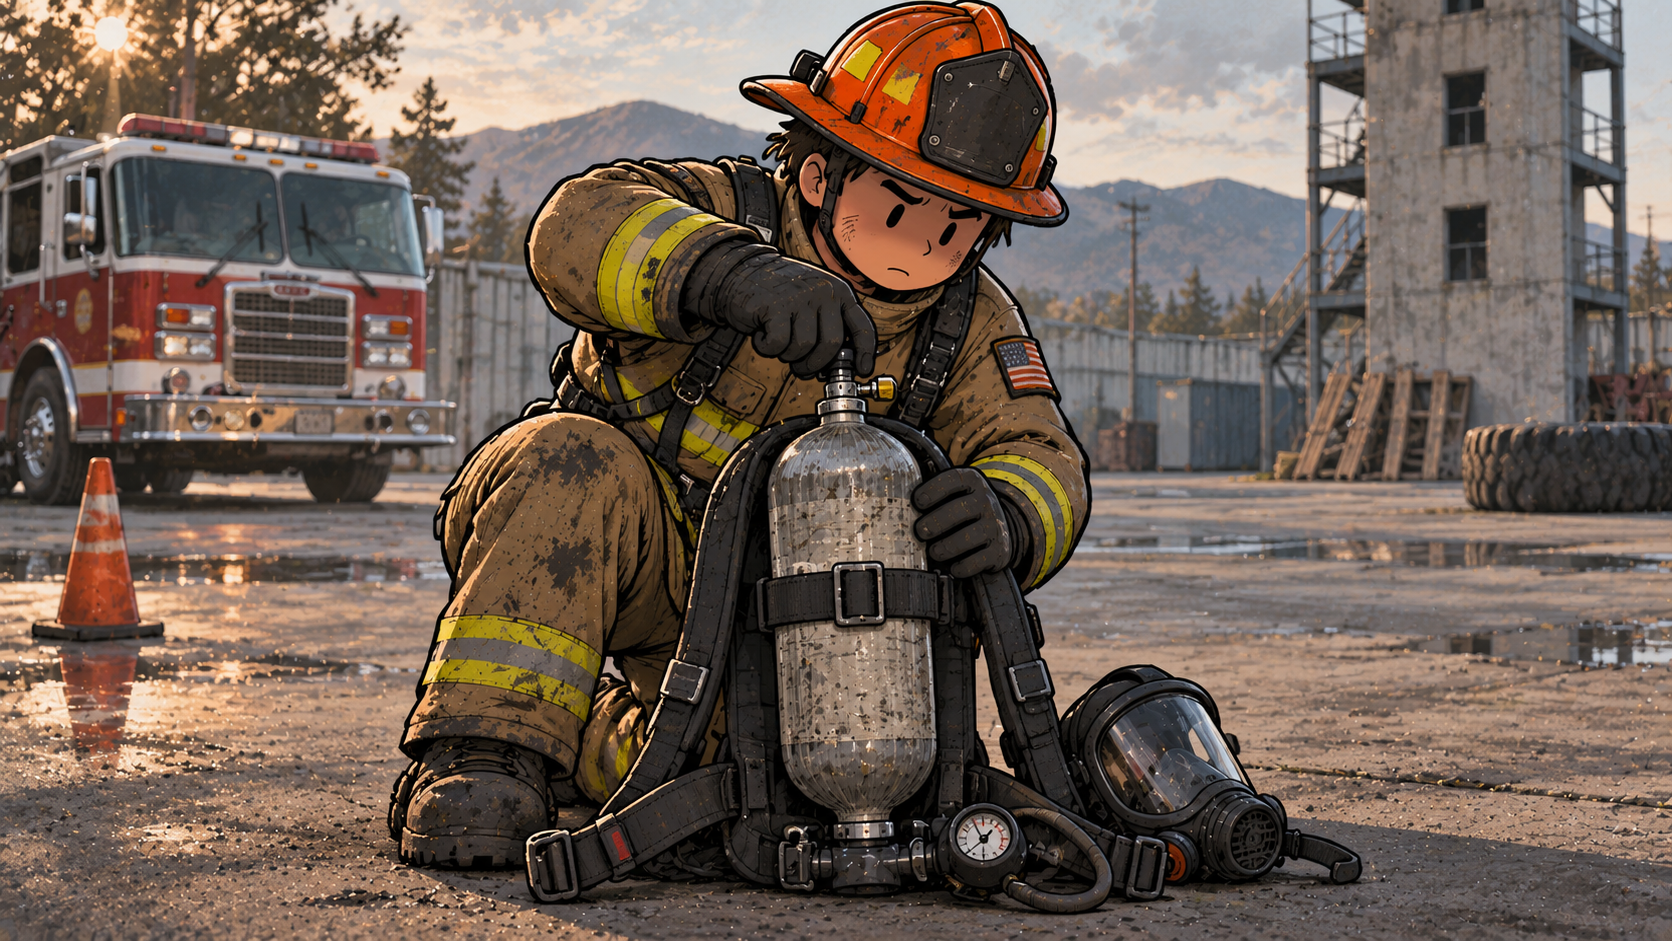
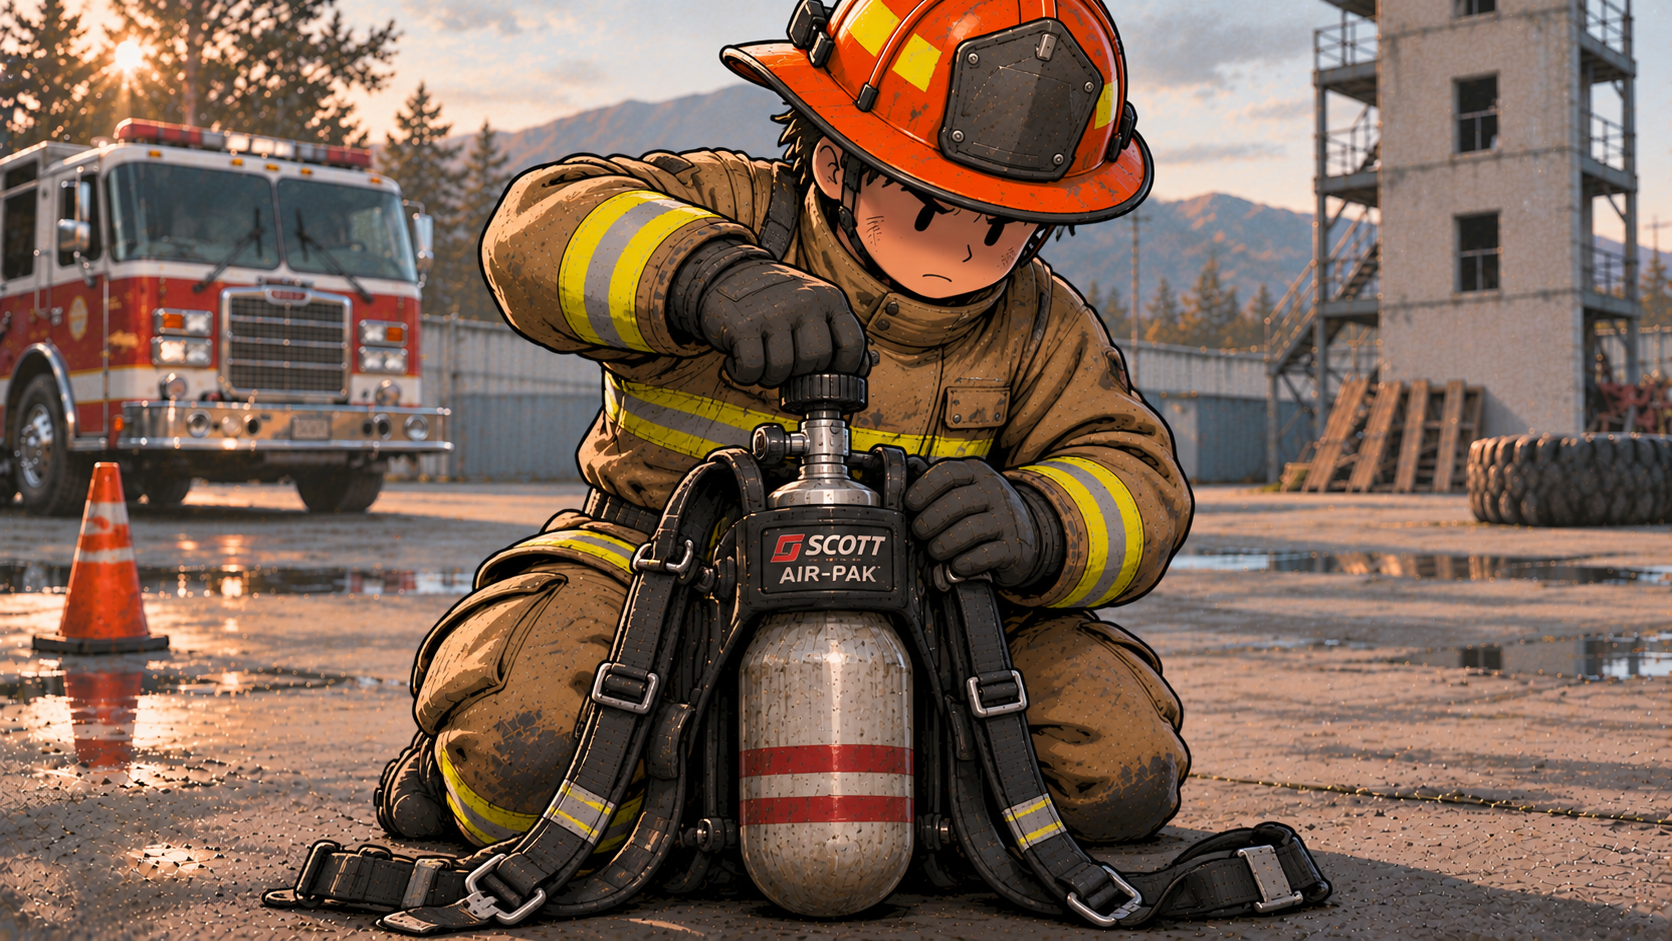
Fix SCBA steps 1-2 per Anthony: flip pack upside down to turn Scott valve on; bottle vertical, valve up, on the over-the-head lift

diff --git a/index.html b/index.html
@@ -64,7 +64,7 @@
     <div class="steps-overview">
       <h2>The seven steps</h2>
       <ol>
-        <li><b>Valve on</b> — cylinder valve fully on, listen for Vibralert + PASS</li>
+        <li><b>Valve on</b> — flip the pack upside down, cylinder valve fully on, listen for Vibralert + PASS</li>
         <li><b>Over the head</b> — lift the pack overhead, lower it onto your back</li>
         <li><b>Straps</b> — shoulder straps, buckle + tighten the waist belt</li>
         <li><b>Facepiece</b> — pull it on from the bag at your left hip, secure the harness</li>
@@ -125,9 +125,9 @@ const STEPS = [
   {
     n: 1, title: "Valve on",
     img: "scenes/scene01.png",
-    situation: "You're kneeling behind the SCBA. It's upright on the ground, straps spread out. The cylinder valve is on top, still closed. What's the first thing you do?",
-    correct: "Turn the cylinder valve on fully and listen for the Vibralert and PASS activation.",
-    why: "Air first, before the pack goes on. Turning the valve on lets you hear the Vibralert (low-air alarm) and the PASS activate — that's your only air check before you don it.",
+    situation: "You're kneeling behind the SCBA. It's a Scott bottle. To reach the knob, flip the pack upside down so the cylinder valve is on top, still closed. What's the first thing you do?",
+    correct: "Flip the pack upside down, then turn the cylinder valve knob on fully and listen for the Vibralert and PASS activation.",
+    why: "Air first, before the pack goes on. The knob sits where you can't reach it with the pack upright, so you flip the pack upside down to get the valve on top, then turn it on fully. You'll hear the Vibralert (low-air alarm) and the PASS activate — that's your air check before you don it.",
     wrong: [
       { t: "Lift the pack over your head and put it on.", why: "Too early. The valve has to be on first — you need to hear the Vibralert and PASS activate before the pack goes on your back." },
       { t: "Put the facepiece on.", why: "Way too early. The facepiece doesn't go on until the pack is on your back and the straps are set. Valve first." },
